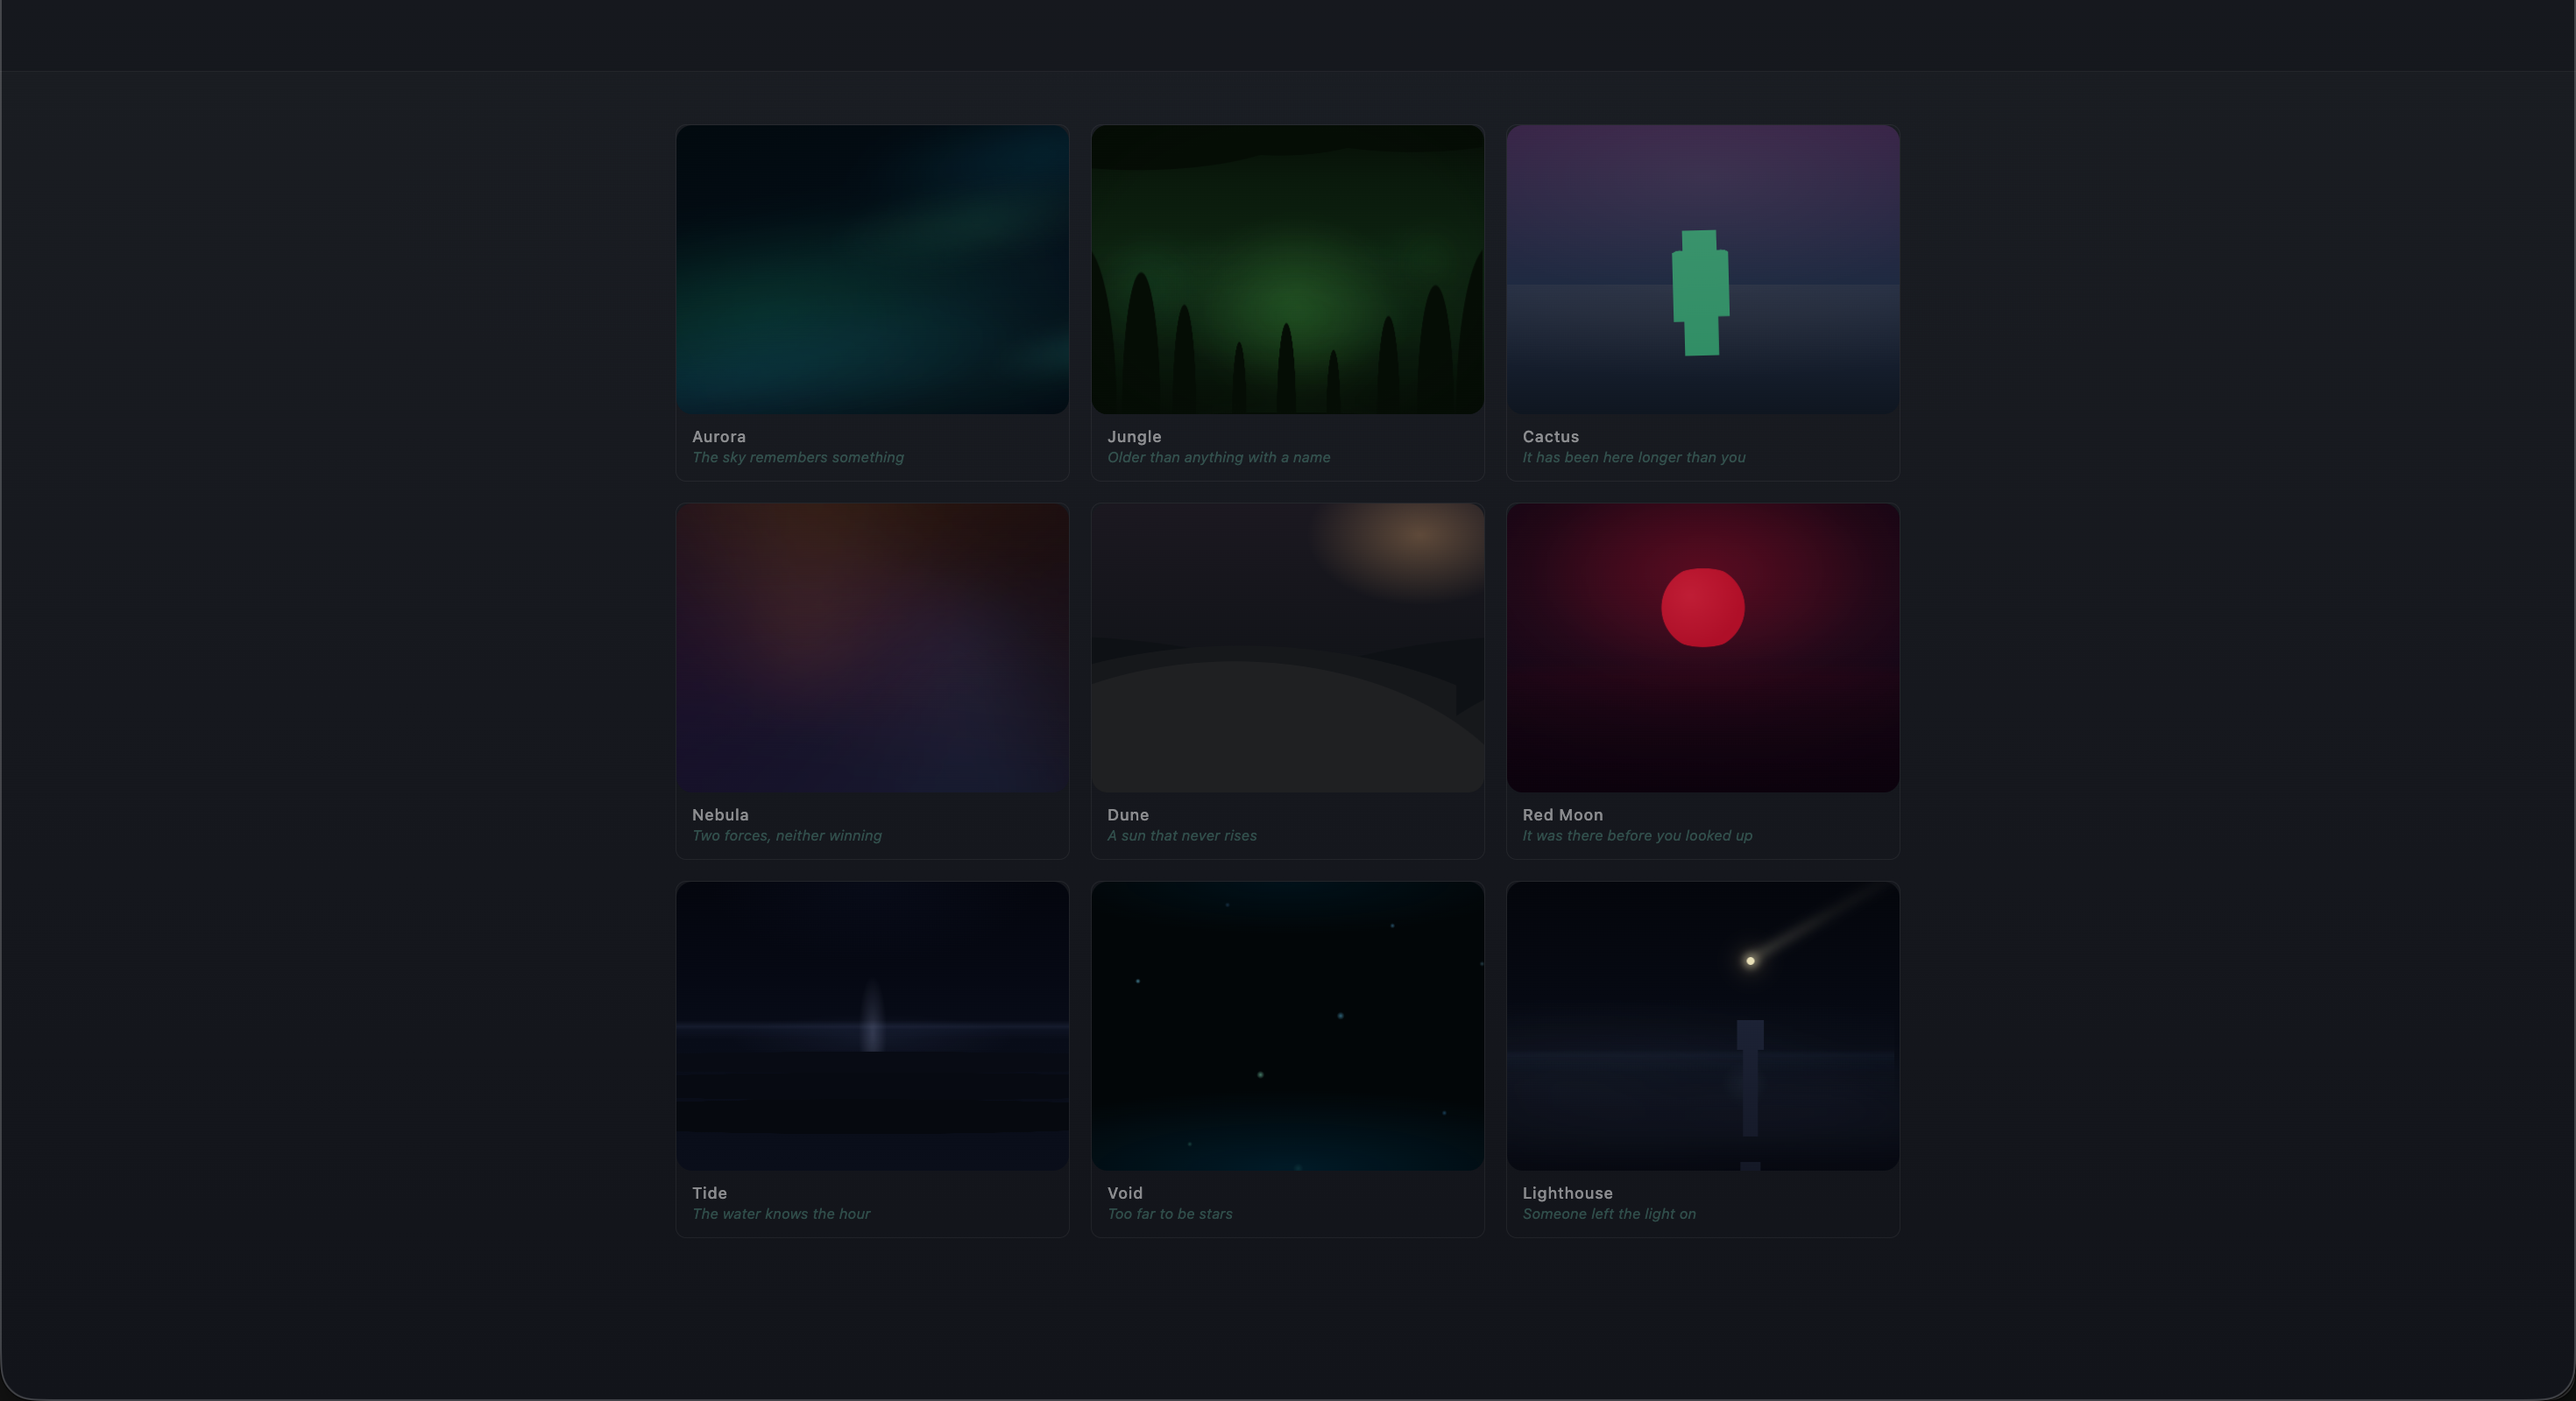
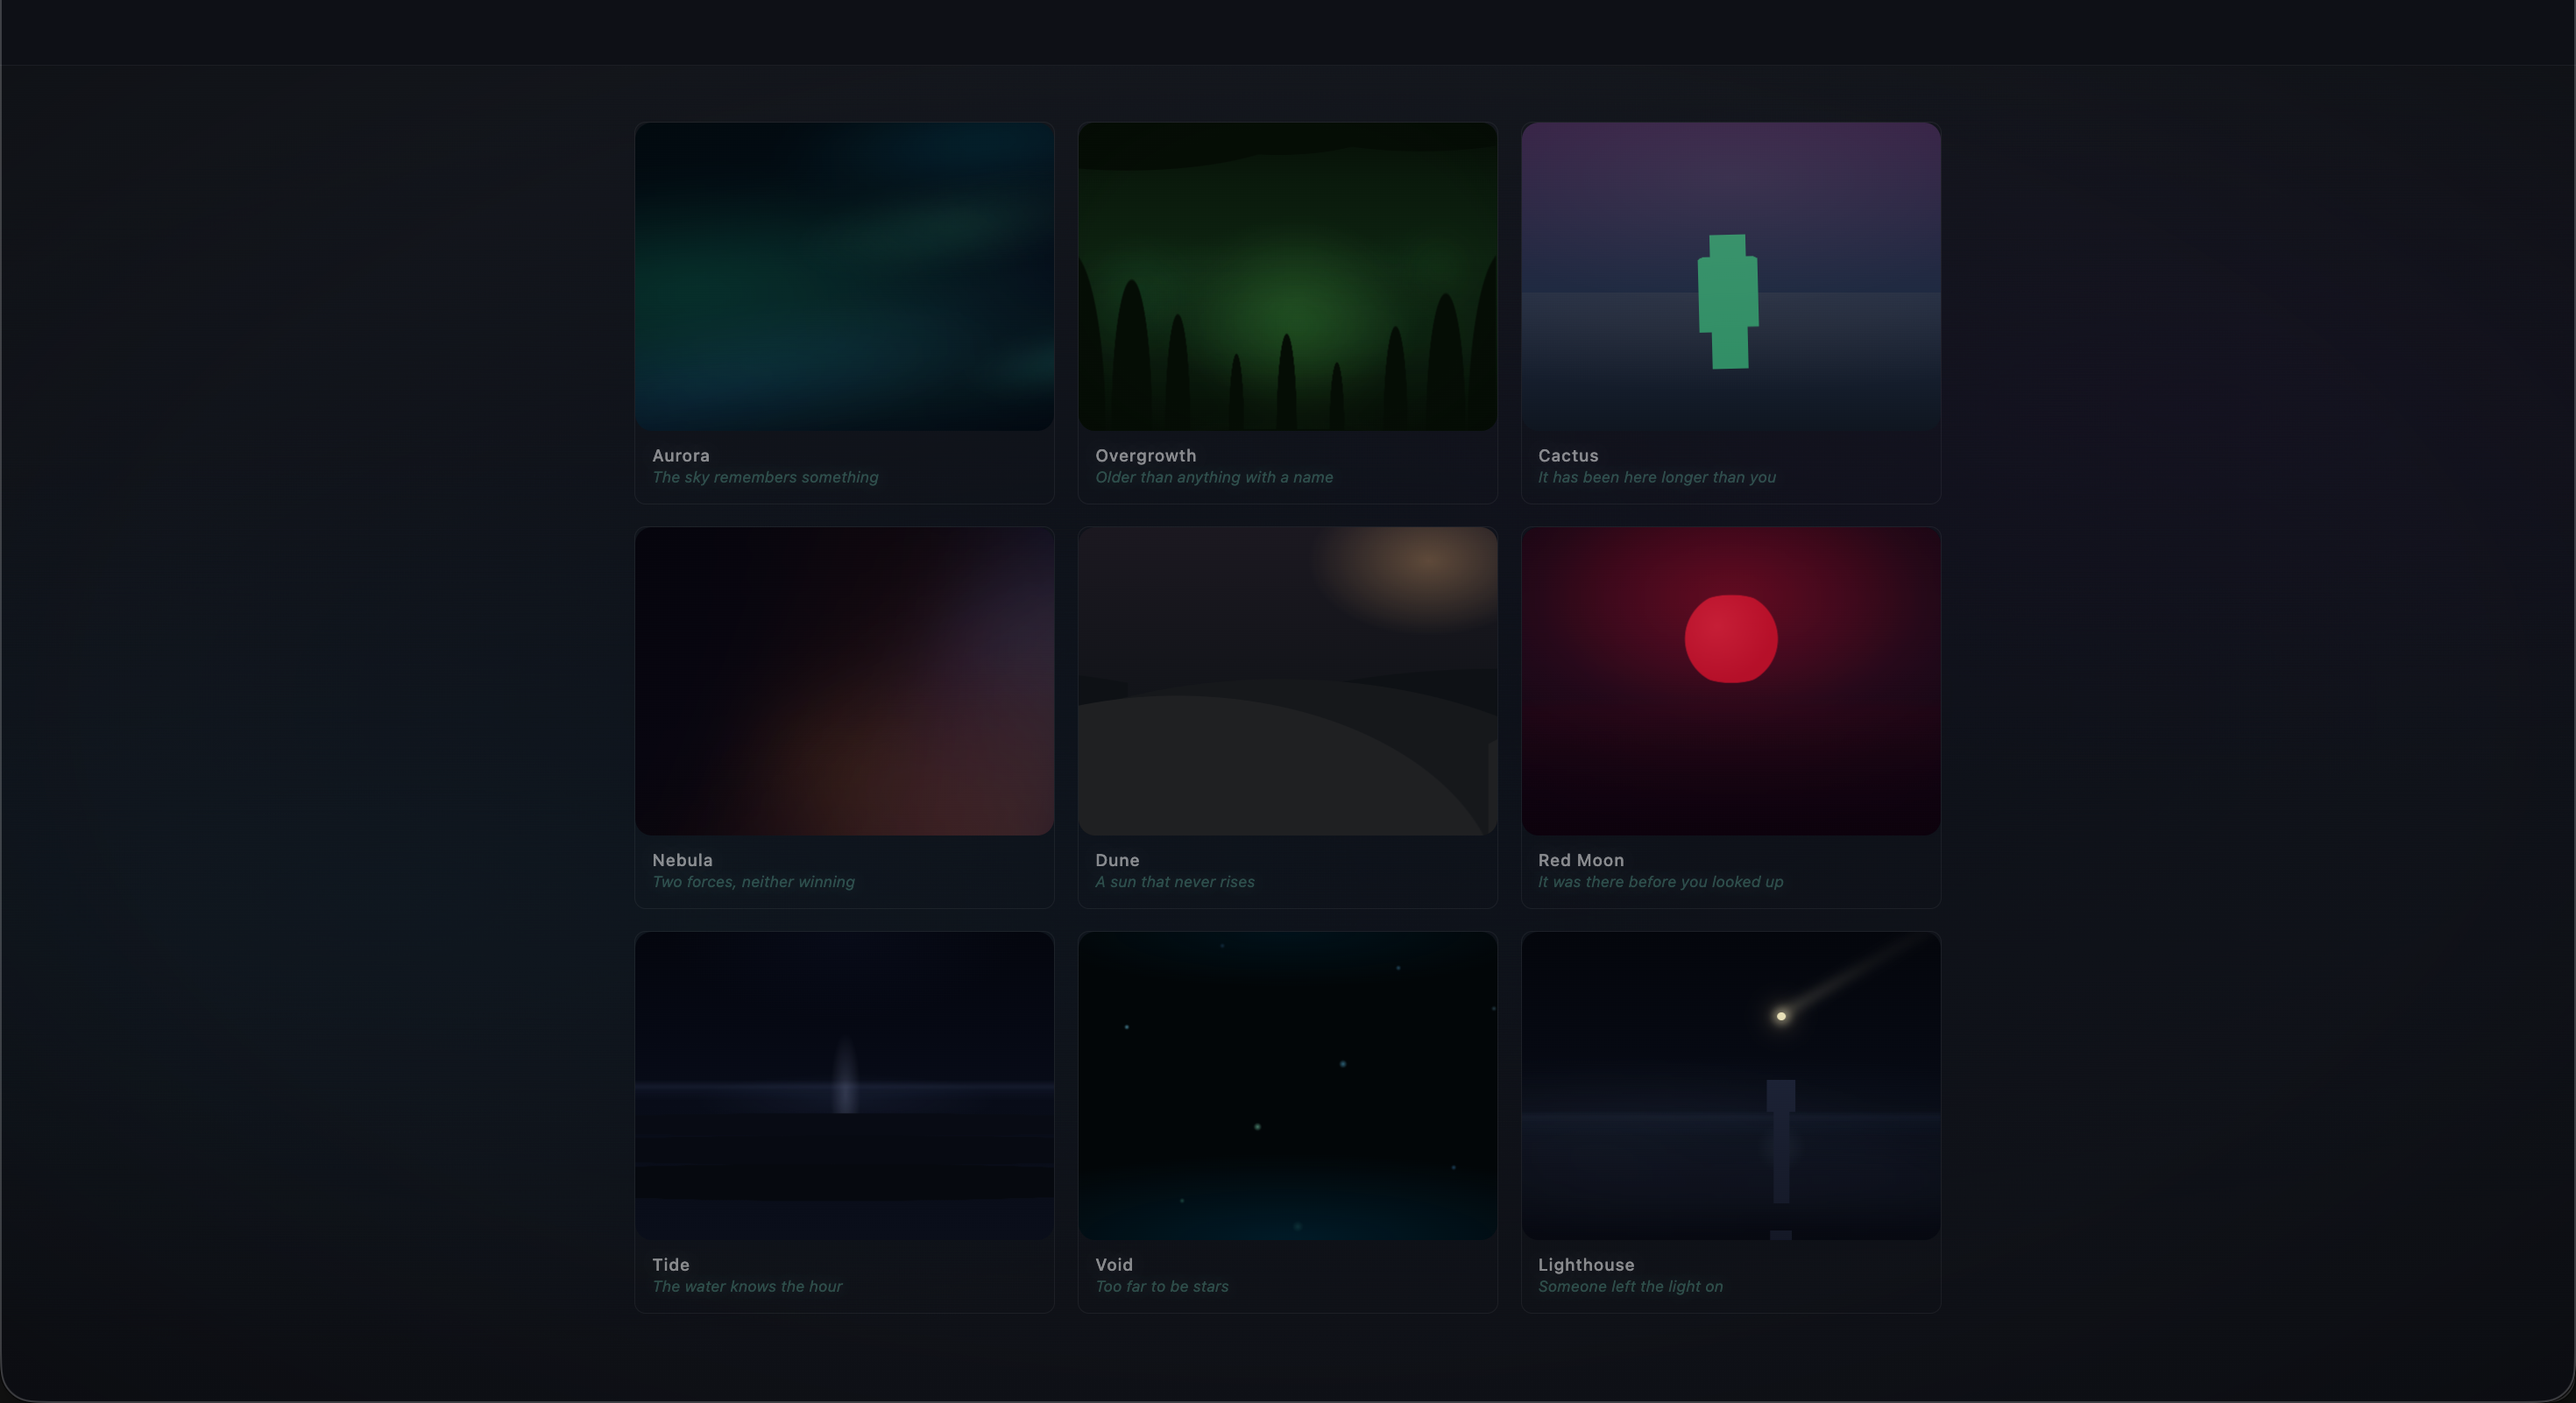
refactor: clean up assets, redesign background atmosphere

diff --git a/src/styles/default.scss b/src/styles/default.scss
@@ -2,13 +2,10 @@ $font-stack: system-ui, -apple-system, Segoe UI, Roboto, sans-serif;
 
 $text: #e9edf4;
 $muted: #bfc6d6;
-$g0: #1a1d22;
-$g1: #16181e;
-$g2: #12141a;
+$g0: #15181e;
+$g1: #12141a;
+$g2: #0e1016;
 
-$spot: rgba(255, 255, 255, .045);
-$bar-bg: rgba(20, 22, 28, .72);
-$bar-blur: 6px;
 $bar-line: rgba(255, 255, 255, .06);
 
 :root {
@@ -17,10 +14,7 @@ $bar-line: rgba(255, 255, 255, .06);
     --g0: #{$g0};
     --g1: #{$g1};
     --g2: #{$g2};
-    --spot: #{$spot};
-    --bar-bg: #{$bar-bg};
-    --bar-blur:#{$bar-blur};
-    --bar-line:#{$bar-line};
+    --bar-line: #{$bar-line};
 }
 
 * {
@@ -39,13 +33,39 @@ body {
     margin: 0;
     font-family: $font-stack;
     color: $text;
-    background:
-        radial-gradient(60% 40% at 50% 14%, rgba(30, 40, 60, .08) 0%, transparent 60%),
-        linear-gradient(180deg, #1a1d22 0%, #16181e 50%, #12141a 100%);
+    background: $g2;
+
+    &::before {
+        content: "";
+        position: fixed;
+        inset: -20%;
+        pointer-events: none;
+        z-index: 0;
+
+        background:
+            radial-gradient(ellipse 60% 40% at 25% 60%, rgba(15, 30, 40, .4) 0%, transparent 60%),
+            radial-gradient(ellipse 50% 35% at 75% 35%, rgba(25, 15, 40, .35) 0%, transparent 55%),
+            radial-gradient(ellipse 80% 50% at 50% 50%, rgba(10, 15, 25, .6) 0%, transparent 70%),
+            linear-gradient(180deg, $g0 0%, $g1 50%, $g2 100%);
+    }
+
+    &::after {
+        content: "";
+        position: fixed;
+        inset: 0;
+        pointer-events: none;
+        z-index: 0;
+
+        background: radial-gradient(ellipse 100% 100% at 50% 50%,
+                transparent 45%,
+                rgba(0, 0, 0, .5) 100%);
+    }
 }
 
 main {
     flex: 1;
+    position: relative;
+    z-index: 1;
 }
 
 .container {
@@ -54,19 +74,28 @@ main {
     padding: 0 16px;
 }
 
-%bar-base {
-    background: $bar-bg;
-    color: inherit;
-    border-color: $bar-line;
-}
-
 .topbar {
-    @extend %bar-base;
+    position: relative;
+    z-index: 2;
+    background: $g2;
+    color: inherit;
     height: 56px;
     display: flex;
     align-items: center;
     padding: 0 16px;
     border-bottom: 1px solid $bar-line;
+}
+
+.footer {
+    position: relative;
+    z-index: 2;
+    background: $g2;
+    color: inherit;
+    height: 56px;
+    display: flex;
+    align-items: center;
+    padding: 0 16px;
+    border-top: 1px solid $bar-line;
 }
 
 .site-title {

diff --git a/src/pages/Gallery.jsx b/src/pages/Gallery.jsx
@@ -23,7 +23,7 @@ const Gallery = () => {
             <article className="card">
                 <div className="frame"><JungleExperiment /></div>
                 <footer className="card__meta">
-                    <span className="card__title">Jungle</span>
+                    <span className="card__title">Overgrowth</span>
                     <span className="card__sub">Older than anything with a name</span>
                 </footer>
             </article>

diff --git a/src/pages/Gallery.scss b/src/pages/Gallery.scss
@@ -48,12 +48,14 @@ $sub-color: rgba(100, 180, 160, .35);
         font-weight: 500;
         color: $title-color;
         letter-spacing: 0.04em;
+        text-shadow: 0 0 12px rgba(255, 255, 255, .08);
     }
 
     &__sub {
         font-size: 11px;
         color: $sub-color;
         font-style: italic;
+        text-shadow: 0 0 10px rgba(100, 180, 160, .12);
     }
 }
 
